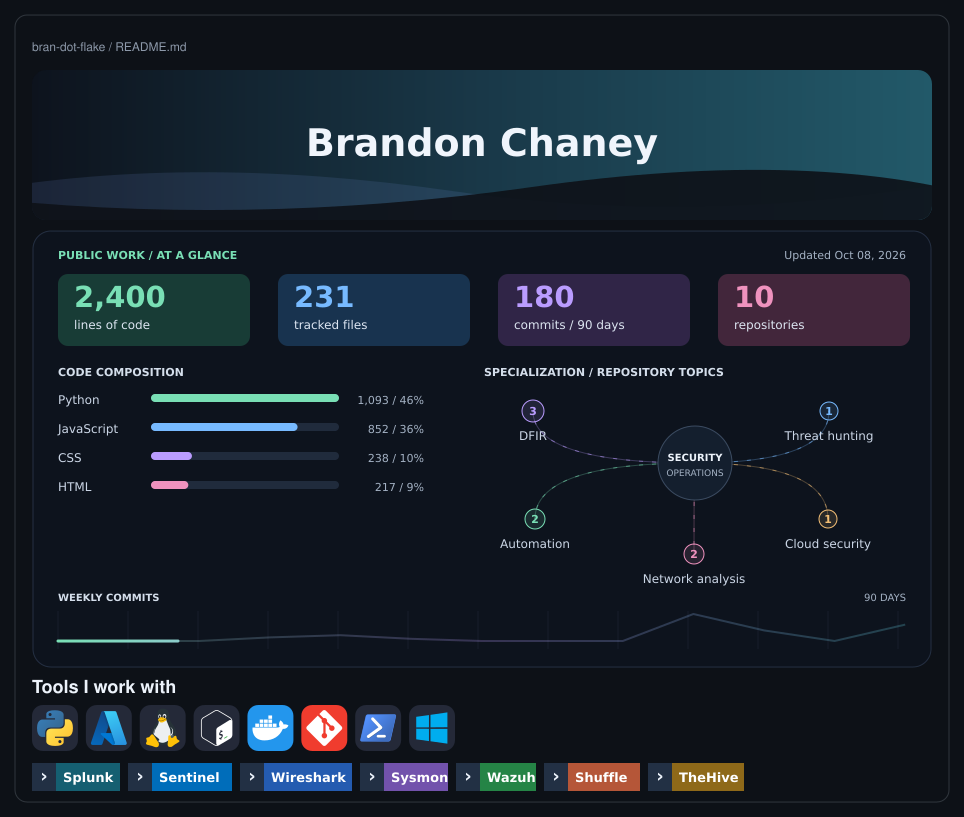
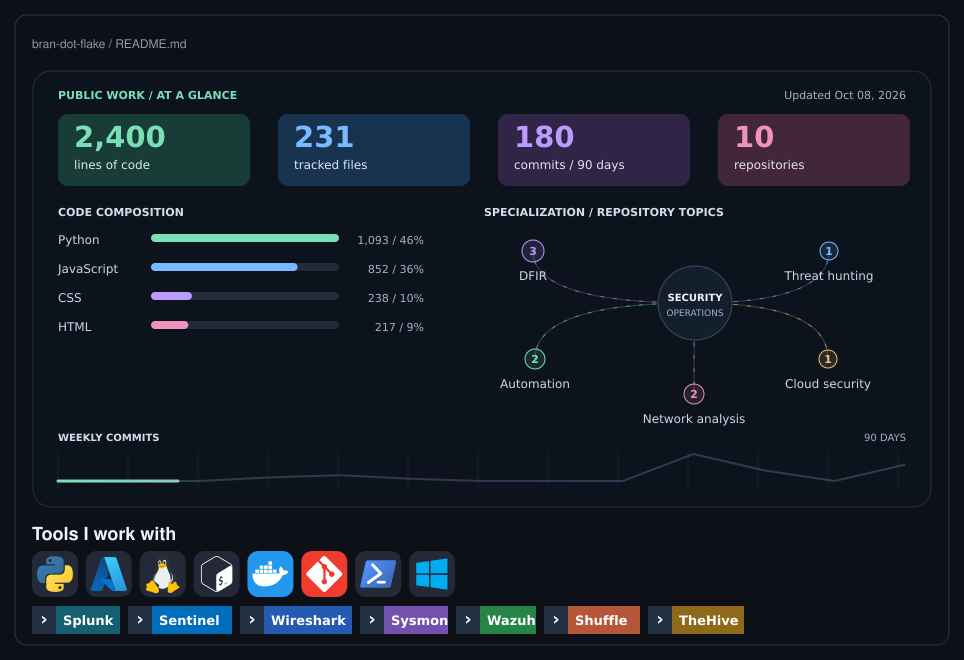
Add files via upload

diff --git a/preview.html b/preview.html
@@ -1,1 +1,1 @@
-<!doctype html><html lang="en"><meta charset="utf-8"><meta name="viewport" content="width=device-width,initial-scale=1"><title>Brandon Chaney — profile preview</title><style>body{background:#0d1117;color:#edf3fb;font:15px Arial;margin:0}main{max-width:900px;margin:24px auto;padding:24px;border:1px solid #30363d;border-radius:12px}img{max-width:100%}.wide{width:100%;display:block;margin:12px 0}h3{margin:22px 0 14px}p{margin:8px 0}</style><main><img class="wide" src="assets/header.svg" alt="Brandon Chaney"><img class="wide" src="assets/dashboard.svg" alt="Public repository metrics and specialization network"><h3>Tools I work with</h3><p><img height="46" src="https://skillicons.dev/icons?i=python,azure,linux,bash,docker,git,powershell,windows&theme=dark&perline=8" alt="Python, Azure, Linux, Bash, Docker, Git, PowerShell, Windows"></p><p><img src="assets/tools.svg" alt="Splunk, Sentinel, Wireshark, Sysmon, Wazuh, Shuffle, TheHive"></p></main></html>
+<!doctype html><html lang="en"><meta charset="utf-8"><meta name="viewport" content="width=device-width,initial-scale=1"><title>Profile dashboard preview</title><style>body{background:#0d1117;color:#edf3fb;font:15px Arial;margin:0}main{max-width:900px;margin:24px auto;padding:24px;border:1px solid #30363d;border-radius:12px}img{max-width:100%}.wide{width:100%;display:block;margin:12px 0}h3{margin:22px 0 14px}p{margin:8px 0}</style><main><img class="wide" src="assets/dashboard.svg" alt="Public repository metrics and specialization network"><h3>Tools I work with</h3><p><img height="46" src="https://skillicons.dev/icons?i=python,azure,linux,bash,docker,git,powershell,windows&theme=dark&perline=8" alt="Python, Azure, Linux, Bash, Docker, Git, PowerShell, Windows"></p><p><img src="assets/tools.svg" alt="Splunk, Sentinel, Wireshark, Sysmon, Wazuh, Shuffle, TheHive"></p></main></html>

diff --git a/SETUP.md b/SETUP.md
@@ -45,18 +45,25 @@ The current included snapshot is real collected data, not mock numbers. See data
 - **Skills:** change the Skill Icons IDs in config.json; update the matching alt text in scripts/update.py.
 - **Tool badges:** edit the `tools` list in scripts/update.py.
 - **Network:** update the five categories and topic aliases in config.json. Topics measure repository coverage, not proficiency.
-- **Header and colors:** edit the SVG renderer in scripts/update.py.
-- **Less motion:** remove the `wave`, `wave2`, and `sweep` classes. Reduced-motion preferences disable CSS animations where supported. The network retains its subtle moving connections.
+- **Colors:** edit the SVG renderer in scripts/update.py.
+- **Less motion:** remove the `sweep` and `flow` classes. Reduced-motion preferences disable CSS animations where supported. The network retains its subtle moving connections.
 
 ## Layout and motion
 
-The profile contains just a name banner, summary dashboard, skill icons, and tool badges. The marked intro, explanatory notes and featured-project section were removed. GitHub's native pinned repos remain managed separately in your profile.
+The profile contains the summary dashboard, skill icons, and tool badges. The name banner and the marked intro, explanatory notes and featured-project section were removed. GitHub's native pinned repos remain managed separately in your profile.
 
-The header has two gently drifting waves on a restrained gradient. The weekly activity line has a repeating highlight over actual weekly commit counts; animation is decorative, not live incoming events. Stat cards use distinct tinted blocks. SVG images work without JavaScript or Pages; clients that disable animation retain the full static layout.
+The weekly activity line has a repeating highlight over actual weekly commit counts; animation is decorative, not live incoming events. Stat cards use distinct tinted blocks. SVG images work without JavaScript or Pages; clients that disable animation retain the full static layout.
 
-`preview.html` shows the animated composition locally. `preview.png` is a static composition preview, not a screenshot of a published profile. These preview files do not update daily. The README and SVGs do.
+`preview.html` shows the animated composition locally. `preview.png` is a static composition preview, not a screenshot of a published profile. These preview files do not update daily. The README and SVGs do. The dashboard image URL gets a new version value on each successful refresh so GitHub requests the latest SVG.
 
-The code scan walks each fresh clone's checkout directly, excluding .git and common build/vendor folders; it does not depend on cloc's version-specific --vcs behavior. The included data snapshot is retained from the successful measured scan. Running Actions collects fresh data.
+The code scan walks each fresh clone's checkout directly, excluding .git and common build/vendor folders. It aborts if a repository has tracked source files but the counter returns no code. The included data snapshot comes from a previous successful scan. Running Actions collects fresh data.
+
+## If GitHub shows stale or zero metrics
+
+1. Confirm the root `README.md` uses `assets/dashboard.svg?v=...`, and that `assets/dashboard.svg` in the **same repository root** shows the latest value in its source. If it does, reload the profile. The version changes after each successful workflow run.
+2. Open **Actions → Refresh profile dashboard** and run it manually. A successful run commits updated `README.md`, `assets/dashboard.svg` and `data/source.json`. If it fails, read the first failed step in that run; the prior dashboard stays intact.
+3. If the root README refers to `assets/dashboard.svg` but the new files are under `profile-dashboard/assets`, upload the contents of `profile-dashboard` to the repository root. GitHub does not unpack the ZIP for you.
+4. If the workflow never appears, confirm `.github/workflows/dashboard.yml` is at the root and the repo uses `main` as its default branch. The old unreferenced `assets/header.svg` can be deleted later in the web interface.
 
 ## Local regeneration
 

diff --git a/README.md b/README.md
@@ -1,6 +1,4 @@
-<img src="assets/header.svg" width="900" alt="Brandon Chaney" />
-
-<img src="assets/dashboard.svg" width="900" alt="Public work: 2,400 lines of code, 231 tracked files, 180 non-bot commits in 90 days, 10 repositories. Topic counts: DFIR: 3, Threat hunting: 1, Automation: 2, Cloud security: 1, Network analysis: 2." />
+<img src="assets/dashboard.svg?v=20261008163632" width="900" alt="Public work: 2,400 lines of code, 231 tracked files, 180 non-bot commits in 90 days, 10 repositories. Topic counts: DFIR: 3, Threat hunting: 1, Automation: 2, Cloud security: 1, Network analysis: 2." />
 
 ### Tools I work with
 
